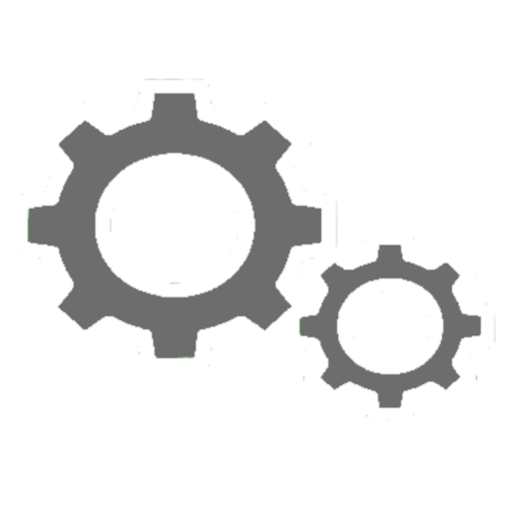
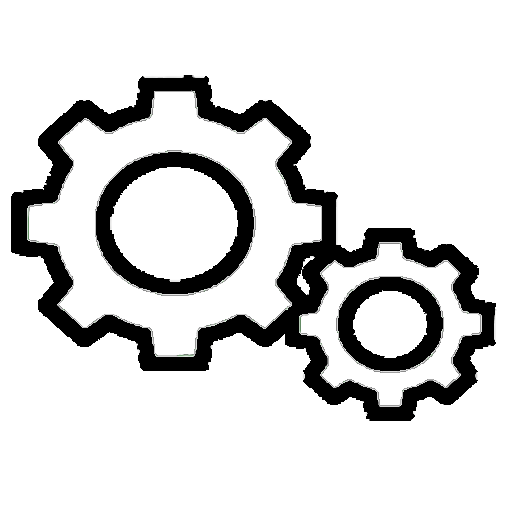
Select driver page

diff --git a/DVBTTelevizor.MAUI/Pages/SelectDriverPage.xaml b/DVBTTelevizor.MAUI/Pages/SelectDriverPage.xaml
@@ -62,14 +62,21 @@
         <Grid AbsoluteLayout.LayoutBounds="0.5,0.6,0.7,0.3" AbsoluteLayout.LayoutFlags="All">
             <Grid.RowDefinitions>
                 <RowDefinition Height="*" />
+                <RowDefinition Height="10" />
                 <RowDefinition Height="*" />
             </Grid.RowDefinitions>
             <Grid.ColumnDefinitions>
                 <ColumnDefinition Width="100*" />
             </Grid.ColumnDefinitions>
 
-            <local:ImgButton Grid.Column="0" Grid.Row="0" TopTitleText="{local:LngXamlExt Input='DVBT (DVBT/DVBT2)'}" x:Name="DVBTDriverButton" TextFontSize="{Binding FontSizeForLabel}" Img="configdriver.png" TapCommand="{Binding CommandDVBT}" HorizontalOptions="Center" VerticalOptions="Center" Margin="10,0,0,0"/>
-            <local:ImgButton Grid.Column="0" Grid.Row="1" TopTitleText="{local:LngXamlExt Input='SDR  (FM/DAB)'}" x:Name="SDRDriverButton" TextFontSize="{Binding FontSizeForLabel}" Img="configdriver.png" TapCommand="{Binding CommandSDR}" HorizontalOptions="Center" VerticalOptions="Center" Margin="10,0,0,0"/>            
+            <Frame Grid.Column="0" Grid.Row="0" BackgroundColor="Gray" CornerRadius="15" Margin="0,0,0,0" Padding="5,5,5,5">
+                <local:ImgButton  TopTitleText="{local:LngXamlExt Input='DVBT (DVBT/DVBT2)'}" x:Name="DVBTDriverButton" TextFontSize="{Binding FontSizeForCaption}" Img="configdriver.png" TapCommand="{Binding CommandDVBT}" HorizontalOptions="Center" VerticalOptions="Center" Margin="10,0,0,0" TextColor="Black"/>
+            </Frame>
+
+            <Frame Grid.Column="0" Grid.Row="2" BackgroundColor="Gray" CornerRadius="15" Margin="0,0,0,0" Padding="5,5,5,5">
+                <local:ImgButton Grid.Column="0" Grid.Row="1" TopTitleText="{local:LngXamlExt Input='SDR  (FM/DAB)'}" x:Name="SDRDriverButton" TextFontSize="{Binding FontSizeForCaption}" Img="configdriver.png" TapCommand="{Binding CommandSDR}" HorizontalOptions="Center" VerticalOptions="Center" Margin="10,0,0,0"  TextColor="Black"/>
+            </Frame>
+            
             
           </Grid>
 

diff --git a/DVBTTelevizor.MAUI/ImgButton.xaml b/DVBTTelevizor.MAUI/ImgButton.xaml
@@ -27,11 +27,11 @@
                         HorizontalTextAlignment="Start"
                         VerticalOptions="Center"
                         HorizontalOptions="StartAndExpand"
-                        TextColor="White"
+                        TextColor="{Binding TextColor, Source={x:Reference ImgBtn}}"
                         Margin="5,0,0,0"/>
 
                 <Label x:Name="BottomTitle" Grid.Row="1" Grid.Column="0" Grid.ColumnSpan="2" Text="{Binding BottomTitleText, Source={x:Reference ImgBtn}}"
-                        FontSize="{Binding TextFontSize, Source={x:Reference ImgBtn}}"
+                        FontSize="{Binding TextColor, Source={x:Reference ImgBtn}}"
                         FontAttributes="Bold"
                         HorizontalTextAlignment="Start"
                         VerticalOptions="Start"

diff --git a/DVBTTelevizor.MAUI/ImgButton.xaml.cs b/DVBTTelevizor.MAUI/ImgButton.xaml.cs
@@ -1,6 +1,7 @@
 namespace DVBTTelevizor.MAUI;
 
 using Microsoft.Maui.Controls;
+using Microsoft.Maui.Graphics.Text;
 using System.ComponentModel;
 using System.Runtime.CompilerServices;
 using System.Windows.Input;
@@ -54,6 +55,14 @@ public partial class ImgButton : ContentView
         default(int),
         propertyChanged: OnAnyValueChanged);
 
+    public static readonly BindableProperty TextColorProperty =
+    BindableProperty.Create(
+        nameof(TextColor),
+        typeof(Color),
+        typeof(ImgButton),
+        default(Color),
+        propertyChanged: OnAnyValueChanged);
+
     private static void OnAnyValueChanged(BindableObject bindable, object oldValue, object newValue)
     {
 
@@ -64,6 +73,7 @@ public partial class ImgButton : ContentView
 		InitializeComponent();
 
         ButtonColor = Colors.Gray;
+        TextColor = Colors.White;
     }
 
     public void FocusItem(bool focus)
@@ -116,6 +126,12 @@ public partial class ImgButton : ContentView
     {
         get => (Color)GetValue(ButtonColorProperty);
         set => SetValue(ButtonColorProperty, value);
+    }
+
+    public Color TextColor
+    {
+        get => (Color)GetValue(TextColorProperty);
+        set => SetValue(TextColorProperty, value);
     }
 
 }
